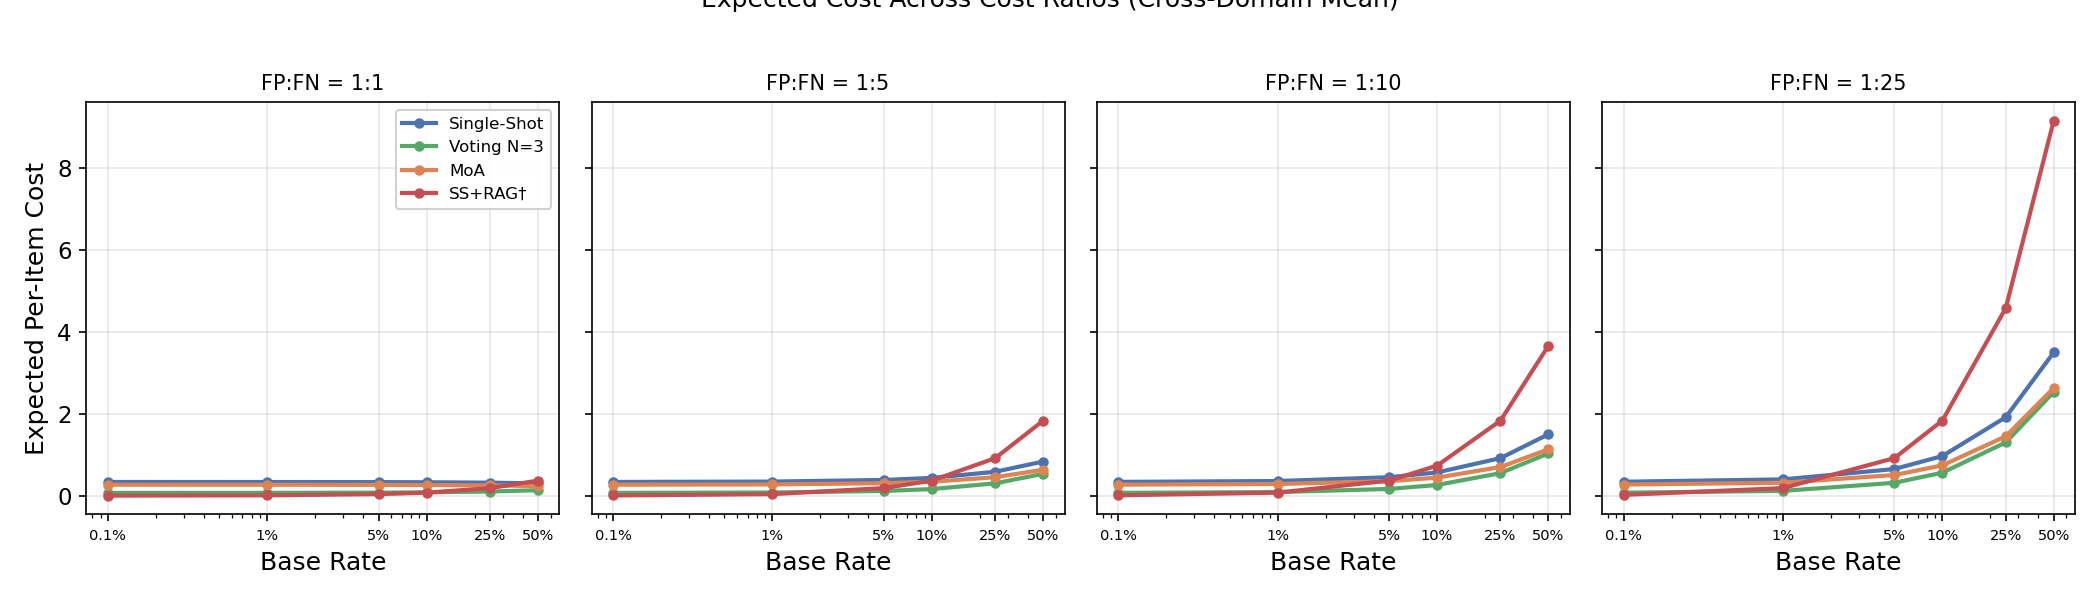
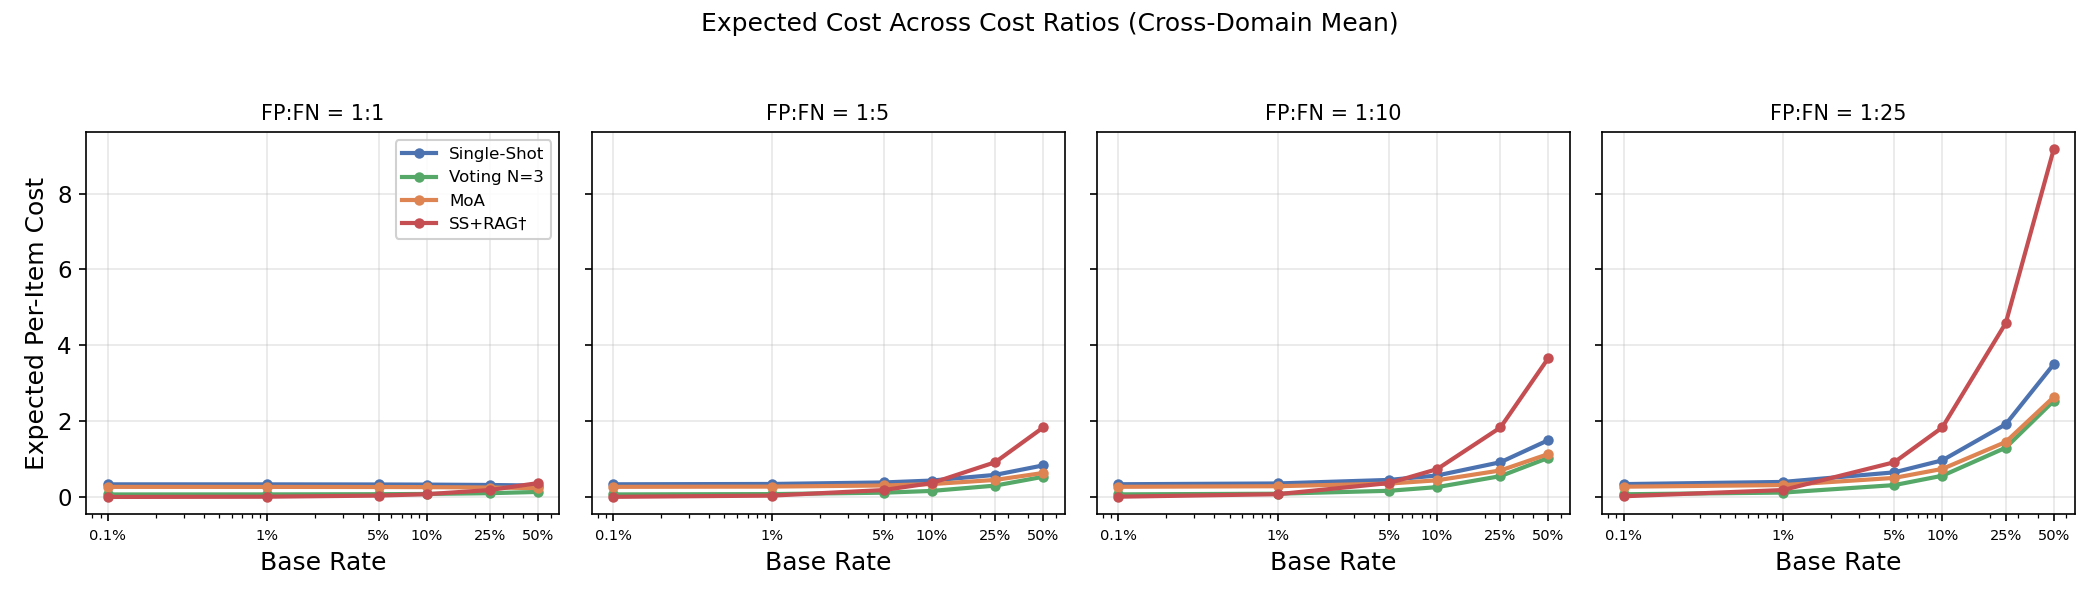
fix: adjust title positions and legend placement

diff --git a/src/plot_phase11.py b/src/plot_phase11.py
@@ -171,8 +171,8 @@ def plot_expected_cost(cross):
         ax.grid(True, alpha=0.3)
 
     axes[0].legend(loc="upper right", framealpha=0.9, fontsize=8)
-    fig.suptitle("Expected Cost Across Cost Ratios (Cross-Domain Mean)", fontsize=12, y=1.02)
-    fig.tight_layout()
+    fig.suptitle("Expected Cost Across Cost Ratios (Cross-Domain Mean)", fontsize=12)
+    fig.tight_layout(rect=[0, 0, 1, 0.95])
     path = os.path.join(OUT_DIR, "phase11_expected_cost.png")
     fig.savefig(path)
     plt.close(fig)
@@ -224,10 +224,10 @@ def plot_latency_f1(data, cross):
     ax.set_xlim(0, 28)
     ax.set_ylim(0, 1.1)
 
-    lgnd1 = ax.legend(handles=cross_legend, loc="lower left",
+    lgnd1 = ax.legend(handles=cross_legend, loc="upper left",
                       framealpha=0.9, fontsize=9, title="Cross-domain mean")
     ax.add_artist(lgnd1)
-    ax.legend(handles=[pd_handle], loc="lower right", framealpha=0.9, fontsize=8)
+    ax.legend(handles=[pd_handle], loc="center right", framealpha=0.9, fontsize=8)
     ax.grid(True, alpha=0.3)
     fig.tight_layout()
     path = os.path.join(OUT_DIR, "phase11_latency_f1.png")

diff --git a/src/plot_phase12a.py b/src/plot_phase12a.py
@@ -146,8 +146,8 @@ def plot_rag_comparison(p11, p12a):
             ax.legend(fontsize=7, loc="lower right")
             ax.grid(True, alpha=0.2)
 
-    fig.suptitle("Evidence Augmentation Impact: No RAG vs +RAG", fontsize=12, y=1.02)
-    fig.tight_layout()
+    fig.suptitle("Evidence Augmentation Impact: No RAG vs +RAG", fontsize=12)
+    fig.tight_layout(rect=[0, 0, 1, 0.96])
     path = os.path.join(OUT_DIR, "phase12a_rag_comparison.png")
     fig.savefig(path)
     plt.close(fig)
